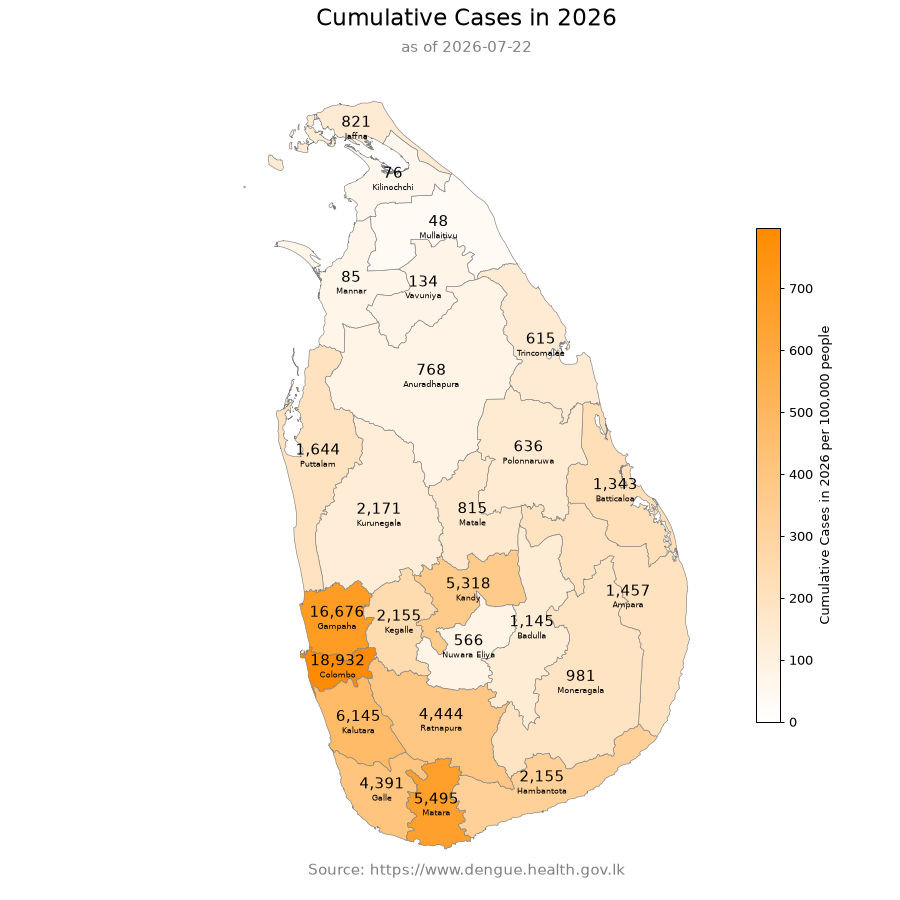
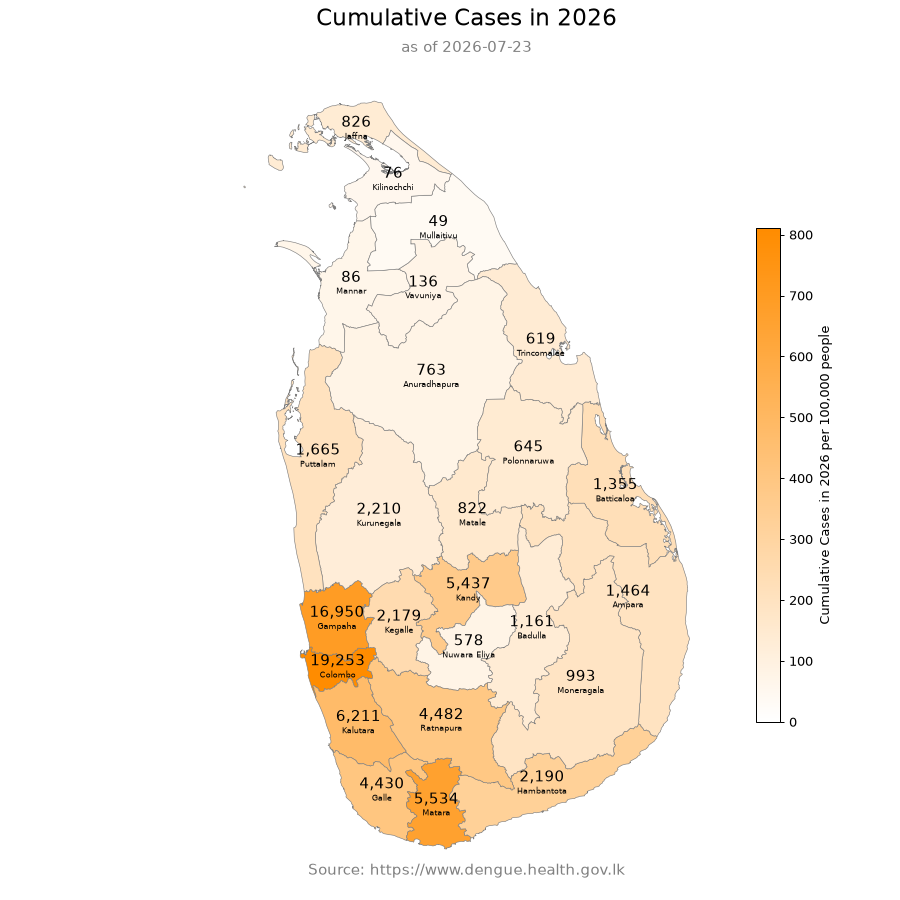
🤖 [pipeline.yml] 2026-07-24-0536

diff --git a/README.md b/README.md
@@ -287,6 +287,7 @@ As of 2026-07-19
 
 ### [National Dengue Control Unit - Daily Update](data/NDCUDaily)
 
+- [2026-07-23](data/NDCUDaily/2026/2026-07/2026-07-23)
 - [2026-07-22](data/NDCUDaily/2026/2026-07/2026-07-22)
 - [2026-07-21](data/NDCUDaily/2026/2026-07/2026-07-21)
 - [2026-07-20](data/NDCUDaily/2026/2026-07/2026-07-20)
